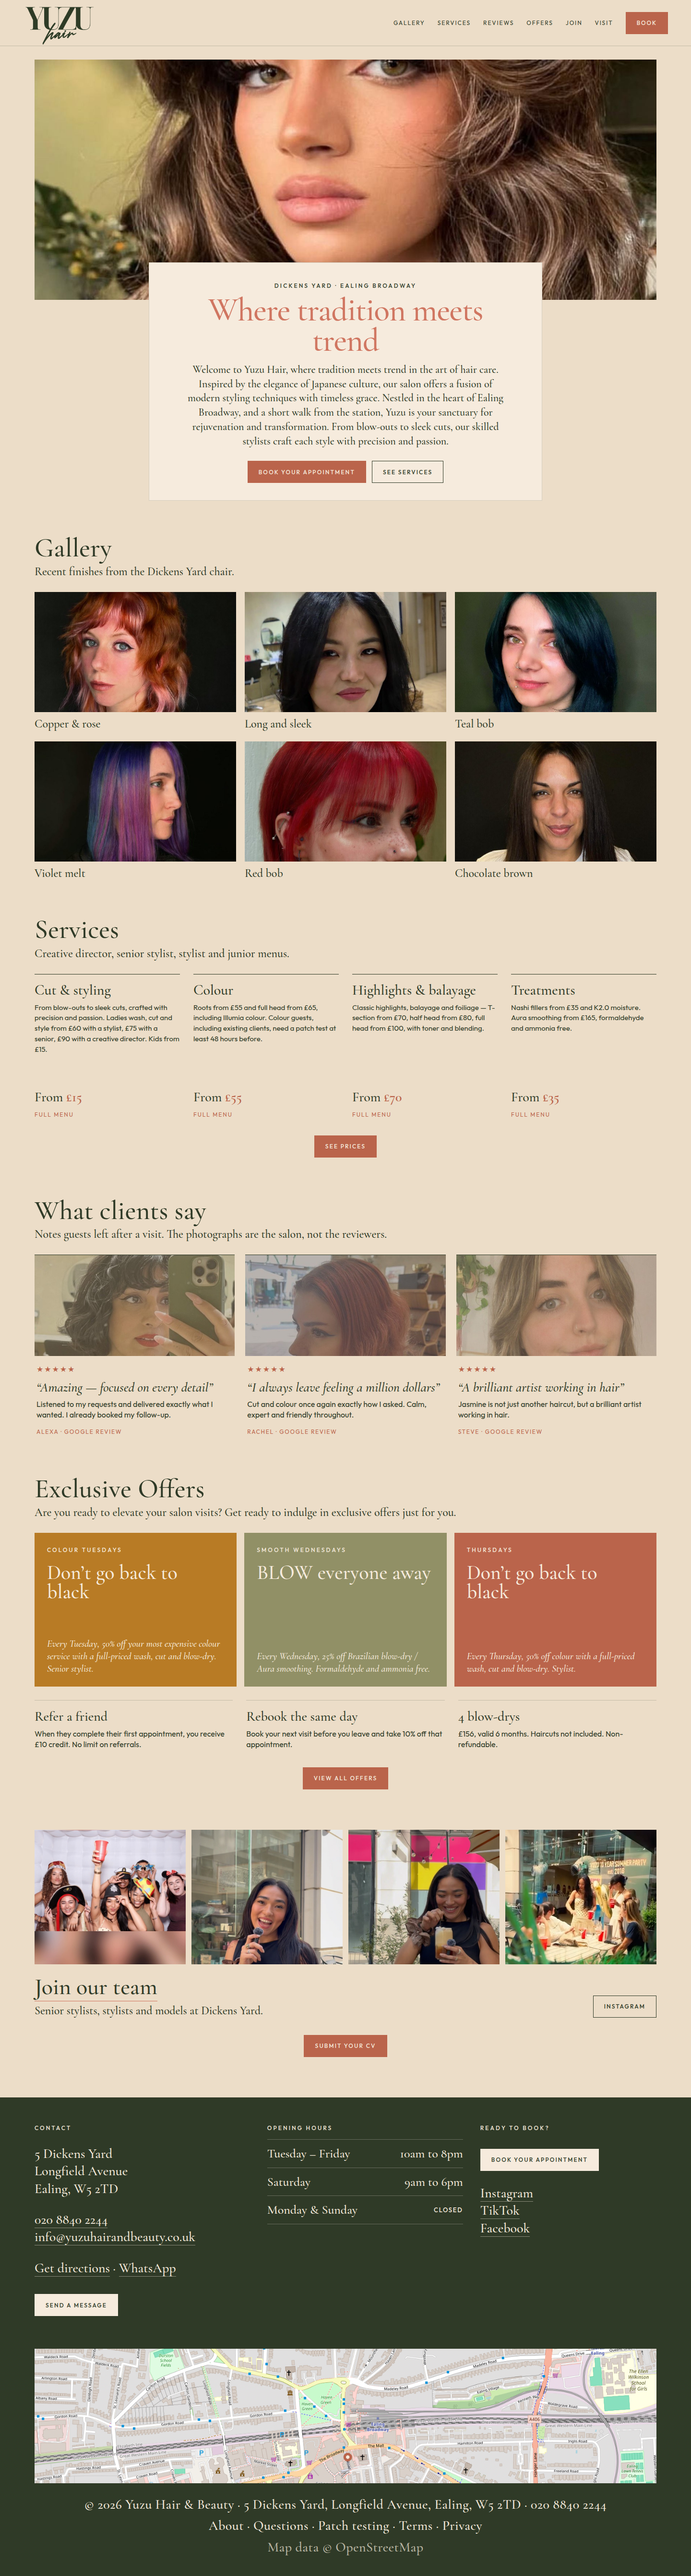
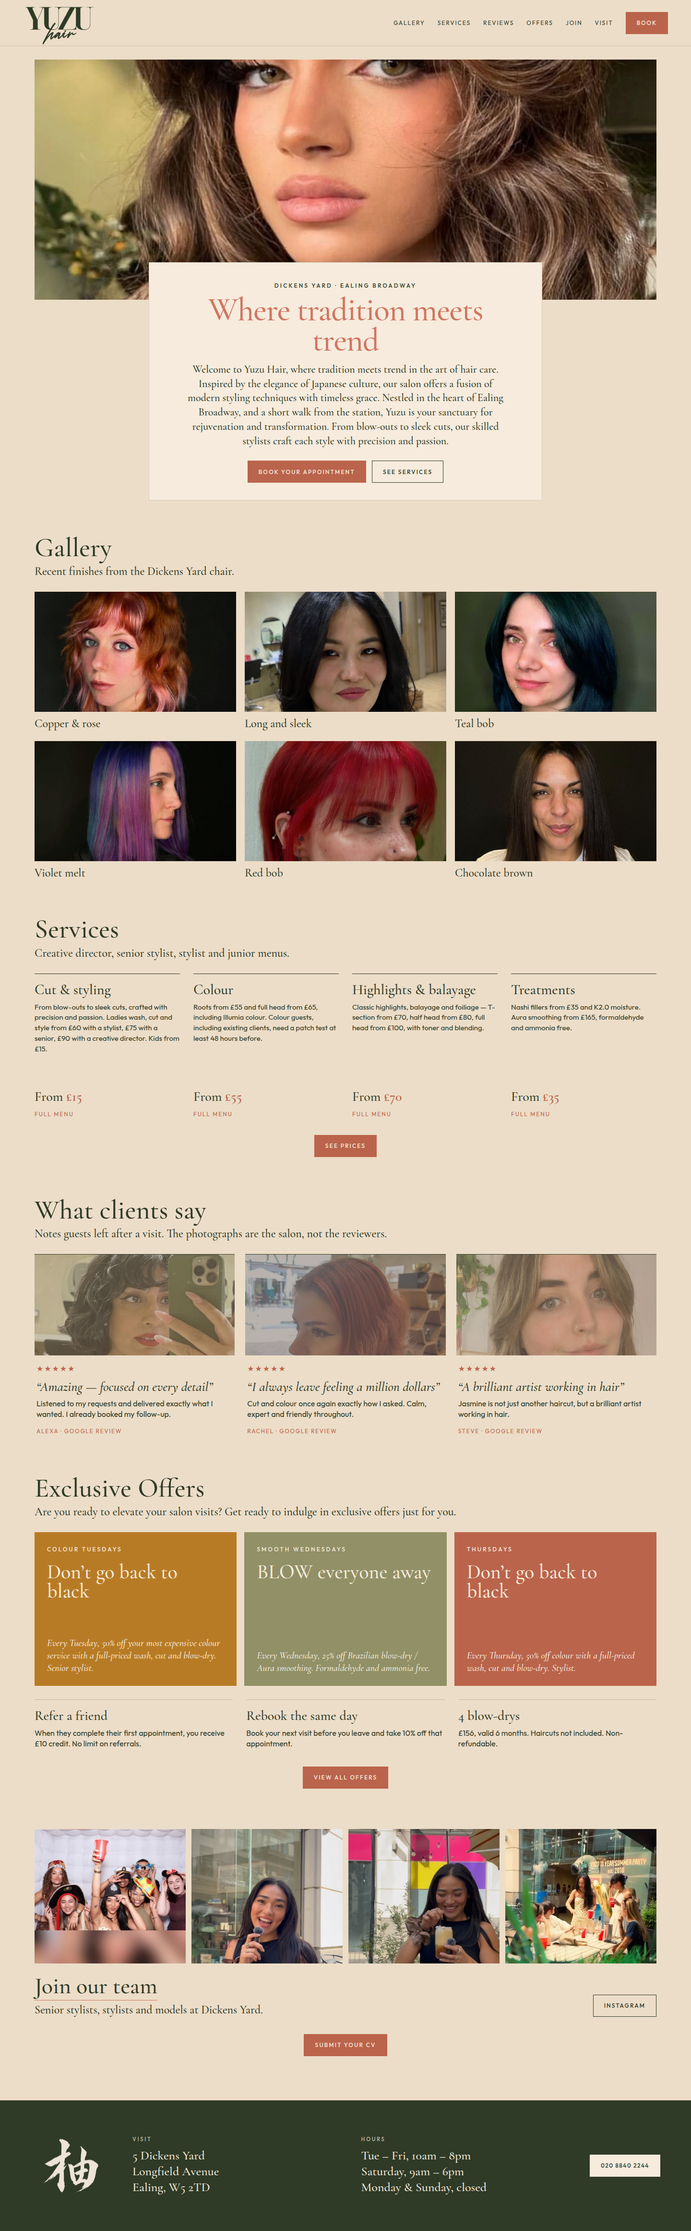
Use the print footer on the restyled homepage.
The forest bar carries the brush character, Dickens Yard, opening hours, and the phone button.

diff --git a/proposals/homepage/now.html b/proposals/homepage/now.html
@@ -180,35 +180,11 @@
     <p class="center-cta"><a class="btn terra" href="cover.html">Submit your CV</a></p>
   </section>
 
-  <section class="visit" id="visit">
-    <div class="wrap visit-grid">
-      <div>
-        <h2>Contact</h2>
-        <p>5 Dickens Yard<br />Longfield Avenue<br />Ealing, W5 2TD</p>
-        <p><a href="tel:+442088402244">020 8840 2244</a><br /><a href="mailto:info@yuzuhairandbeauty.co.uk">info@yuzuhairandbeauty.co.uk</a></p>
-        <p><a href="https://maps.app.goo.gl/bhFS5wwkW3xxAdKd8">Get directions</a> · <a href="https://wa.me/442088402244">WhatsApp</a></p>
-        <p><a class="btn fill" href="cover.html">Send a message</a></p>
-      </div>
-      <div>
-        <h2>Opening hours</h2>
-        <ul class="hours">
-          <li><span>Tuesday – Friday</span><span>10am to 8pm</span></li>
-          <li><span>Saturday</span><span>9am to 6pm</span></li>
-          <li><span>Monday &amp; Sunday</span><span class="closed">CLOSED</span></li>
-        </ul>
-      </div>
-      <div>
-        <h2>Ready to book?</h2>
-        <p><a class="btn fill" href="https://www.phorest.com/salon/yuzuhairandbeauty">Book your appointment</a></p>
-        <p><a href="https://www.instagram.com/yuzuhairandbeauty/">Instagram</a><br /><a href="https://www.tiktok.com/@yuzuhairandbeauty.est16">TikTok</a><br /><a href="https://www.facebook.com/YUZUHairandBeauty/">Facebook</a></p>
-      </div>
-    </div>
-    <img class="map" src="img/map.png" alt="Map of Yuzu Hair and Beauty, 5 Dickens Yard, Ealing" />
-    <footer class="foot">
-      <p>© 2026 Yuzu Hair &amp; Beauty · 5 Dickens Yard, Longfield Avenue, Ealing, W5 2TD · 020 8840 2244</p>
-      <p><a href="cover.html">About</a> · <a href="cover.html">Questions</a> · <a href="cover.html">Patch testing</a> · <a href="cover.html">Terms</a> · <a href="cover.html">Privacy</a></p>
-      <p class="attrib">Map data © OpenStreetMap</p>
-    </footer>
-  </section>
+  <footer class="visit" id="visit">
+    <img class="kanji" src="img/kanji-cream.png" alt="" />
+    <p><span class="label">Visit</span>5 Dickens Yard<br />Longfield Avenue<br />Ealing, W5 2TD</p>
+    <p><span class="label">Hours</span>Tue – Fri, 10am – 8pm<br />Saturday, 9am – 6pm<br />Monday &amp; Sunday, closed</p>
+    <a class="btn fill" href="tel:+442088402244">020 8840 2244</a>
+  </footer>
 </body>
 </html>

diff --git a/proposals/homepage/now.css b/proposals/homepage/now.css
@@ -280,58 +280,32 @@ a { color: inherit; text-decoration: none; }
 .team-foot p { margin: 0; font-family: var(--serif); font-size: 24px; font-weight: 500; }
 
 .visit {
-  margin-top: 64px;
+  margin-top: 72px;
+  height: 272px;
   background: var(--forest);
   color: var(--cream);
-  padding: 56px 0 0;
-}
-.visit-grid {
   display: grid;
-  grid-template-columns: 1.1fr 1fr 0.9fr;
-  gap: 36px;
+  grid-template-columns: 200px 1fr 1fr auto;
+  align-items: center;
+  gap: 28px;
+  padding: 0 64px 0 48px;
 }
-.visit h2 {
-  margin: 0 0 16px;
+.visit .kanji { width: 118px; height: auto; margin: 0 auto; }
+.visit p {
+  margin: 0;
+  font-family: var(--serif);
+  font-size: 26px;
+  font-weight: 500;
+  line-height: 1.28;
+}
+.visit .label {
+  display: block;
+  margin-bottom: 10px;
   font-family: var(--sans);
-  font-size: 12px;
+  font-size: 11px;
   font-weight: 500;
   letter-spacing: 0.26em;
   text-transform: uppercase;
+  opacity: 0.72;
 }
-.visit p, .visit li {
-  font-family: var(--serif);
-  font-size: 28px;
-  font-weight: 500;
-  line-height: 1.3;
-}
-.visit a { border-bottom: 1px solid rgba(246, 235, 221, 0.45); }
-.visit .btn { border-bottom: 0; margin-top: 8px; }
-.hours { list-style: none; margin: 0; padding: 0; }
-.hours li {
-  display: flex;
-  justify-content: space-between;
-  gap: 20px;
-  padding: 12px 0;
-  border-top: 1px solid rgba(246, 235, 221, 0.28);
-  font-size: 26px;
-}
-.hours li:last-child { border-bottom: 1px solid rgba(246, 235, 221, 0.28); }
-.hours .closed { font-family: var(--sans); font-size: 13px; letter-spacing: 0.14em; align-self: center; }
-.map {
-  margin: 40px 72px 0;
-  height: 280px;
-  width: calc(100% - 144px);
-  object-fit: cover;
-  object-position: center 72%;
-}
-.foot {
-  padding: 26px 72px 34px;
-  background: var(--forest);
-  color: var(--cream);
-  font-size: 15px;
-  letter-spacing: 0.03em;
-  text-align: center;
-}
-.foot p { margin: 0 0 8px; }
-.foot a { border-bottom: 0; }
-.attrib { opacity: 0.7; font-size: 12px; margin-bottom: 0; }
+.visit .btn { letter-spacing: 0.12em; }
